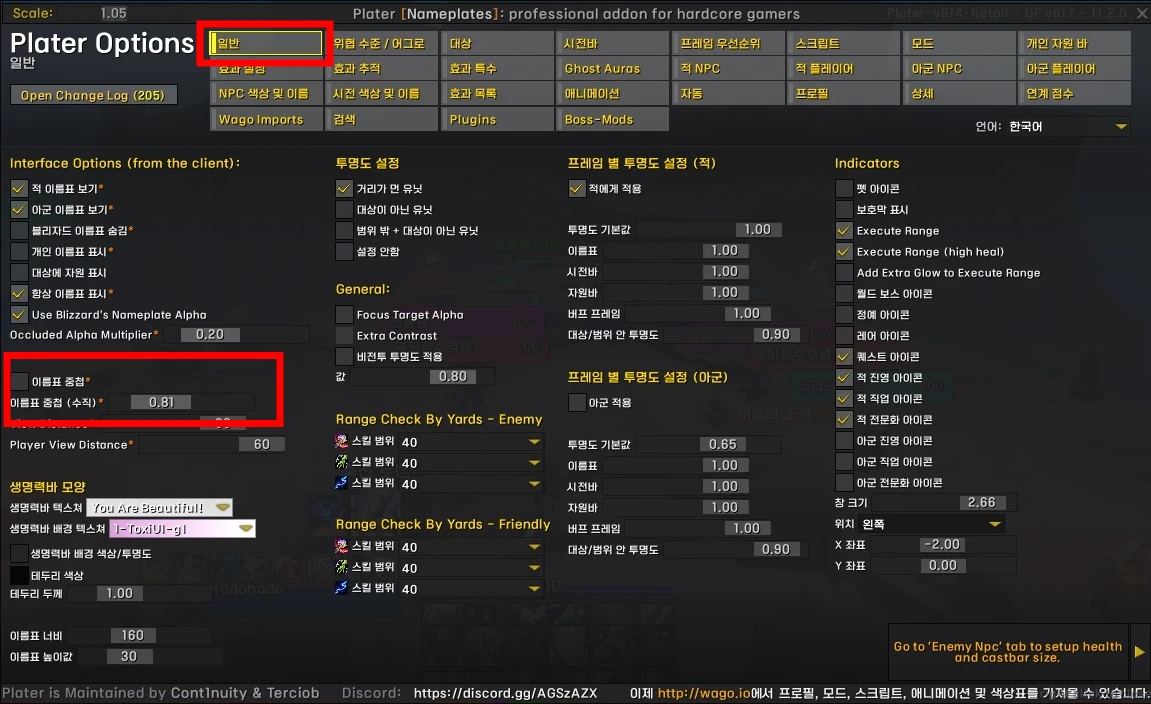
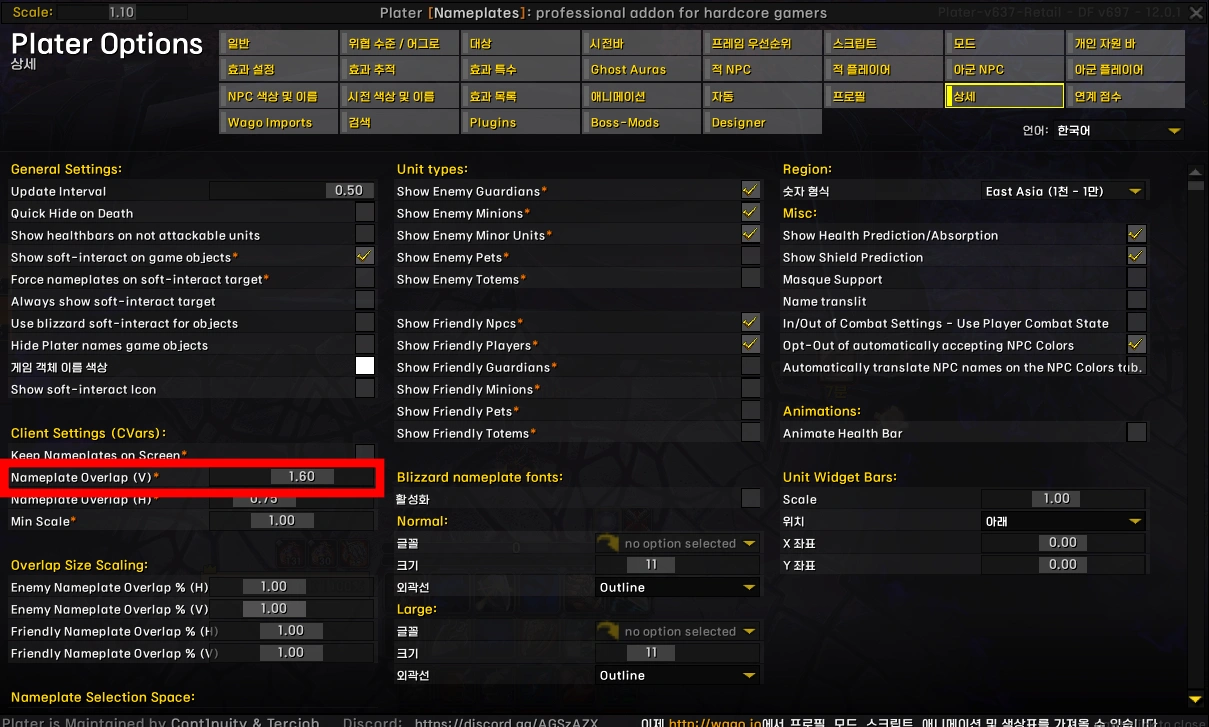
1

diff --git a/_posts/plater/2025-08-19-nameplate-space/2025-08-19-nameplate-space.md b/_posts/plater/2025-08-19-nameplate-space/2025-08-19-nameplate-space.md
@@ -4,7 +4,7 @@ search: true
 # last_modified_at: # 2021-10-09 수정날짜
 
 date: 2025-08-19
-title: "플레이터 간격 조절"
+title: "플레이터 간격 조절 (한밤 업데이트)"
 categories: # 카테고리 설정
   - Plater # Plater, Weakauras, WOWinfo, Github
 tags:
@@ -19,7 +19,7 @@ header:
 
 ![이미지 설명](/_posts/plater/2025-08-19-nameplate-space/1.webp)
 
-이름 간격 조절 옵션은 **<span style="color:#26beff">/plater</span>** > **<span style="color:#26beff">일반</span>** > **<span style="color:#26beff">이름표 중첩 (수직)</span>**값을 조절해 설정할 수 있습니다.
+이름 간격 조절 옵션은 **<span style="color:#26beff">/plater > 상세 > Client Settings > Nameplate Overlap (V)</span>**값을 조절해 설정할 수 있습니다.
 <br>
 <br>
 

diff --git a/_posts/plater/2026-03-28-plater-profile-midnight-s1/2026-03-28-plater-profile-midnight-s1.md b/_posts/plater/2026-03-28-plater-profile-midnight-s1/2026-03-28-plater-profile-midnight-s1.md
@@ -43,7 +43,7 @@ header:
 
 ## <span style="color:#0b89ff">■ </span>플레이터 설정
 
-- **<span style="color:#26beff">[이름표 간격 설정](https://dsky3313.github.io/plater/nameplate-space/)</span>**  
+- **<span style="color:#26beff">[이름표 간격 설정 (한밤 업데이트)](https://dsky3313.github.io/plater/nameplate-space/)</span>**  
 - **<span style="color:#26beff">[징표, 아이콘 설정](https://dsky3313.github.io/plater/raidmark/)</span>**  
 - **<span style="color:#26beff">[NPC 색상 설정 (한밤 변경)](https://dsky3313.github.io/plater/plater-npc-color-midnight/)</span>**  
 - **<span style="color:#26beff">[시전바 설정](https://dsky3313.github.io/plater/plater-castbar/)</span>**  
